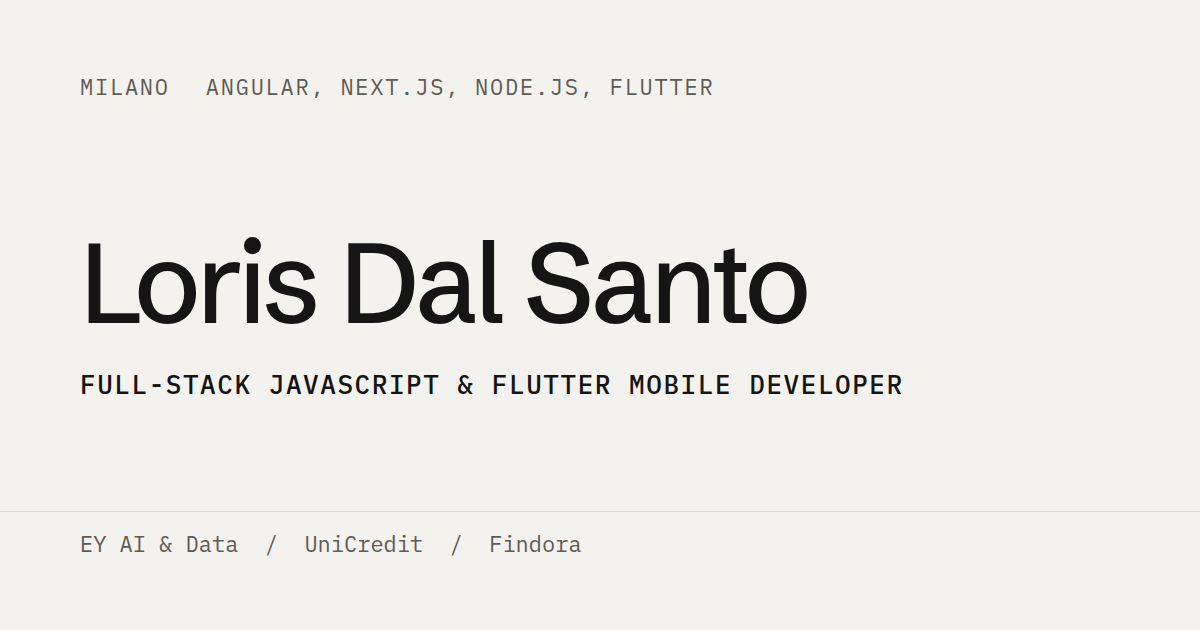
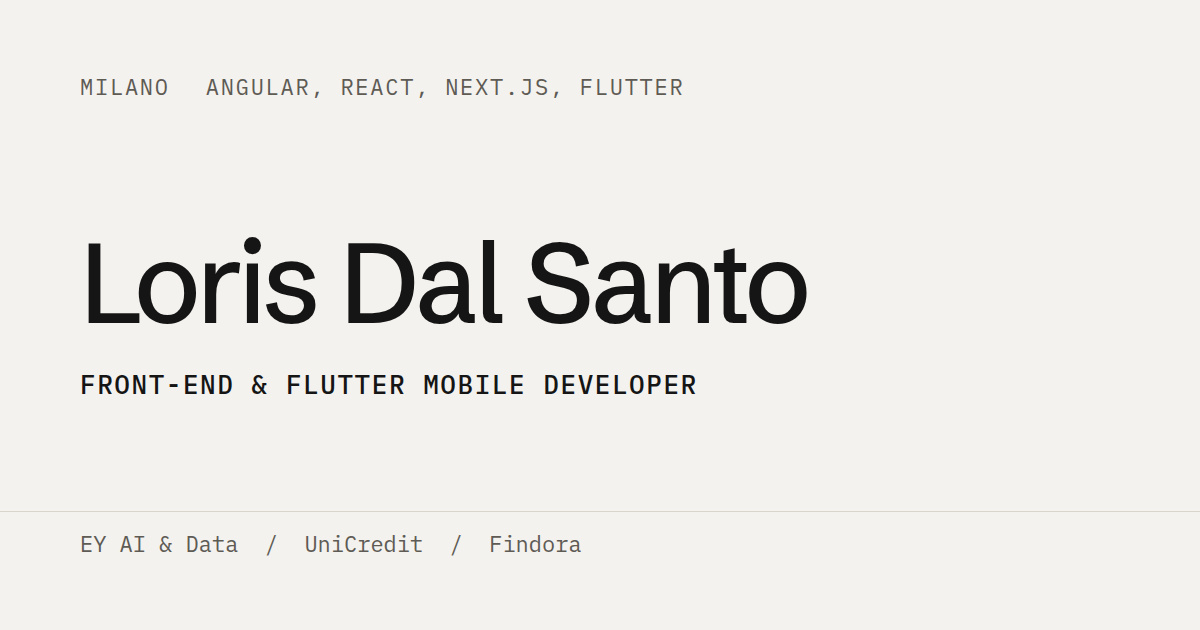
Posizionamento: Front-End & Flutter Mobile Developer
Ruolo allineato ovunque: hero, titolo e descrizione della pagina, testo
alternativo e immagine dell'anteprima social, presentazione e intestazione
del CV. Stack in evidenza: Angular, React, Next.js, Flutter.

Changed region(s): [[0.0617, 0.573, 0.7708, 0.6333], [0.2775, 0.1206, 0.6167, 0.1508]]

diff --git a/src/content/it.ts b/src/content/it.ts
@@ -2,9 +2,9 @@ import type { Content } from "@/models/content.model";
 
 export const it: Content = {
   meta: {
-    title: "Loris Dal Santo | Full-Stack JavaScript & Flutter Mobile Developer",
+    title: "Loris Dal Santo | Front-End & Flutter Mobile Developer",
     description:
-      "Sviluppatore full-stack JavaScript e mobile Flutter a Milano. Angular, Next.js, Node.js e Flutter per banche, enterprise e startup.",
+      "Sviluppatore front-end e mobile Flutter a Milano. Angular, React, Next.js e Flutter per banche, enterprise e startup.",
   },
   nav: {
     work: "Lavori",
@@ -14,7 +14,7 @@ export const it: Content = {
     cv: "CV",
   },
   hero: {
-    role: "Full-Stack JavaScript & Flutter Mobile Developer",
+    role: "Front-End & Flutter Mobile Developer",
     location: "Milano",
     availability: "Aperto a nuove opportunità",
     statement:
@@ -23,7 +23,7 @@ export const it: Content = {
   },
   intro: {
     label: "Presentazione",
-    text: "Sviluppatore full-stack JavaScript e mobile Flutter con quattro anni di esperienza, soprattutto in ambito bancario ed enterprise. Ho lavorato come consulente per UniCredit Europa, su portali interni per EY AI & Data Italia, su un’app mobile fintech in Flutter e su progetti in startup. Oggi in EY seguo il front-end di due progetti interni, dall’architettura ai componenti, dalla documentazione al rilascio, fino alle demo per i Partner. Lavoro con Angular, Next.js, Node.js e Flutter, con attenzione all’accessibilità, ai test e a un codice che resti leggibile anche dopo un anno.",
+    text: "Sviluppatore front-end e mobile Flutter con quattro anni di esperienza, soprattutto in ambito bancario ed enterprise. Ho lavorato come consulente per UniCredit Europa, su portali interni per EY AI & Data Italia, su un’app mobile fintech in Flutter e su progetti in startup. Oggi in EY seguo il front-end di due progetti interni, dall’architettura ai componenti, dalla documentazione al rilascio, fino alle demo per i Partner. Lavoro con Angular, React, Next.js e Flutter, con attenzione all’accessibilità, ai test e a un codice che resti leggibile anche dopo un anno.",
     ai: "Nello sviluppo uso strumenti di intelligenza artificiale, sempre sotto la mia supervisione diretta. Dove un cliente o un progetto non ne prevede l’uso, lavoro senza, in piena autonomia.",
   },
   work: {

diff --git a/src/content/en.ts b/src/content/en.ts
@@ -2,9 +2,9 @@ import type { Content } from "@/models/content.model";
 
 export const en: Content = {
   meta: {
-    title: "Loris Dal Santo | Full-Stack JavaScript & Flutter Mobile Developer",
+    title: "Loris Dal Santo | Front-End & Flutter Mobile Developer",
     description:
-      "Full-stack JavaScript and Flutter mobile developer in Milan. Angular, Next.js, Node.js and Flutter for banking, enterprise and startups.",
+      "Front-end and Flutter mobile developer in Milan. Angular, React, Next.js and Flutter for banking, enterprise and startups.",
   },
   nav: {
     work: "Work",
@@ -14,7 +14,7 @@ export const en: Content = {
     cv: "CV",
   },
   hero: {
-    role: "Full-Stack JavaScript & Flutter Mobile Developer",
+    role: "Front-End & Flutter Mobile Developer",
     location: "Milan, Italy",
     availability: "Open to new opportunities",
     statement:
@@ -23,7 +23,7 @@ export const en: Content = {
   },
   intro: {
     label: "Introduction",
-    text: "Full-stack JavaScript and Flutter mobile developer with four years of experience, mostly in banking and enterprise. I have worked as a consultant for UniCredit Europe, on internal portals for EY AI & Data Italy, on a fintech mobile app in Flutter and on startup projects. At EY I now own the front-end of two internal projects, from architecture and components to documentation, release and demos for the Partners. I work with Angular, Next.js, Node.js and Flutter, with a focus on accessibility, testing and code that is still readable a year later.",
+    text: "Front-end and Flutter mobile developer with four years of experience, mostly in banking and enterprise. I have worked as a consultant for UniCredit Europe, on internal portals for EY AI & Data Italy, on a fintech mobile app in Flutter and on startup projects. At EY I now own the front-end of two internal projects, from architecture and components to documentation, release and demos for the Partners. I work with Angular, React, Next.js and Flutter, with a focus on accessibility, testing and code that is still readable a year later.",
     ai: "I use AI tools in development, always under my direct supervision. Where a client or project rules them out, I work without them, fully independently.",
   },
   work: {

diff --git a/src/lib/site/metadata.ts b/src/lib/site/metadata.ts
@@ -39,7 +39,7 @@ export function pageMetadata(
           url: absoluteUrl("assets/img/og.png"),
           width: 1200,
           height: 630,
-          alt: "Loris Dal Santo, Full-Stack JavaScript & Flutter Mobile Developer",
+          alt: "Loris Dal Santo, Front-End & Flutter Mobile Developer",
         },
       ],
     },

diff --git a/src/content/cv/it.ts b/src/content/cv/it.ts
@@ -19,7 +19,7 @@ export const cvIt: Cv = {
     print: "Stampa o salva in PDF",
     updated: "Aggiornato a",
   },
-  headline: "Front-End Developer & Flutter Developer",
+  headline: "Front-End & Flutter Mobile Developer",
   location: "Milano (IT)",
   updated: "settembre 2026",
   profile:

diff --git a/src/content/cv/en.ts b/src/content/cv/en.ts
@@ -19,7 +19,7 @@ export const cvEn: Cv = {
     print: "Print or save as PDF",
     updated: "Updated",
   },
-  headline: "Front-End Developer & Flutter Developer",
+  headline: "Front-End & Flutter Mobile Developer",
   location: "Milan (IT)",
   updated: "September 2026",
   profile:
